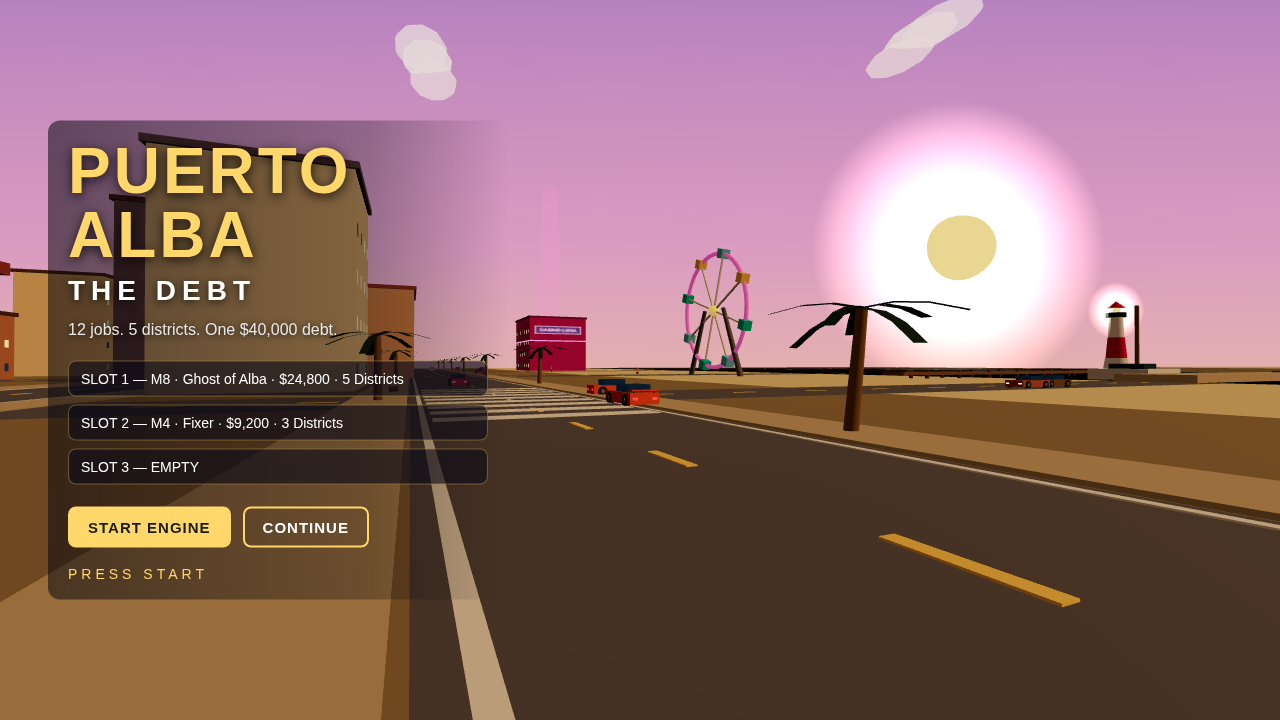
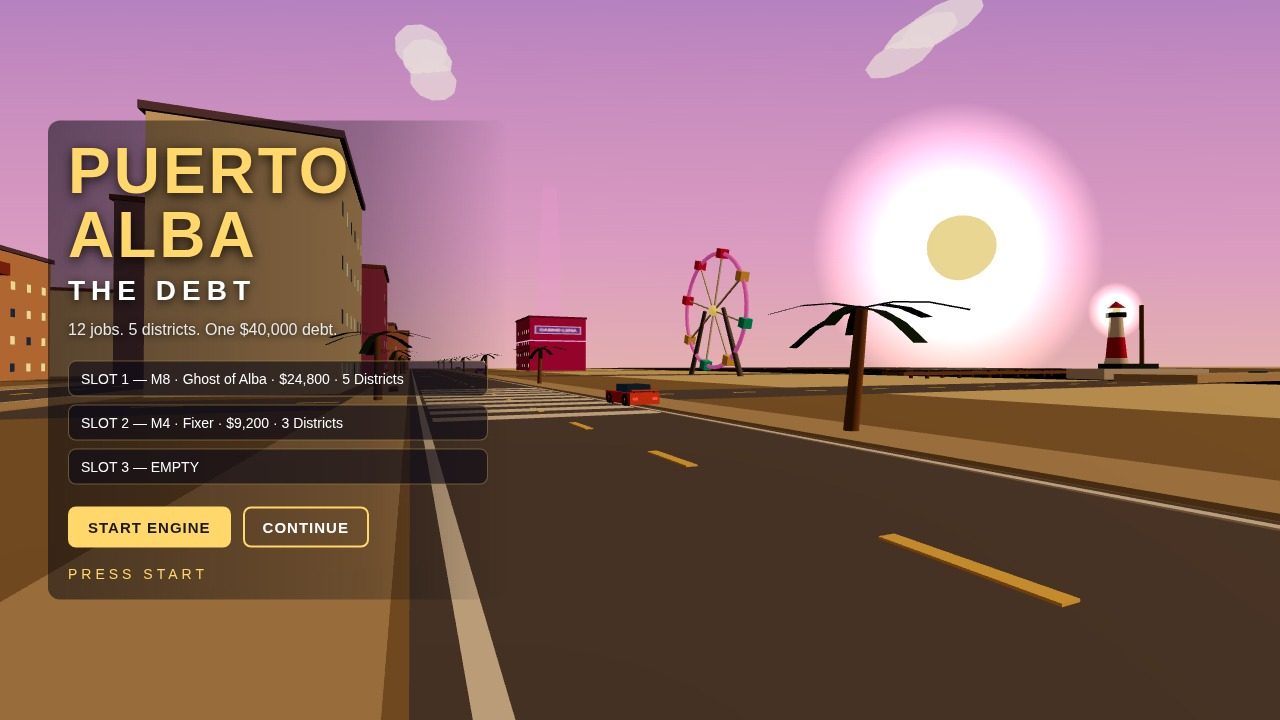
Puerto Alba round 12 polish: wreck smoke stack, walker shadows, glint bands, race framing + gate, combat burn puffs, q92 shots, witnessed

diff --git a/game/src/main.js b/game/src/main.js
@@ -1409,14 +1409,14 @@ export class Game {
     });
     this._wreckCar.speed = 0;
     try {
-      const smokeStops = [[0, 'rgba(38,36,34,0.62)'], [0.6, 'rgba(30,28,26,0.4)'], [1, 'rgba(24,22,20,0)']];
+      const smokeStops = [[0, 'rgba(30,28,26,0.78)'], [0.6, 'rgba(24,22,20,0.5)'], [1, 'rgba(18,16,14,0)']];
       this._wreckSmoke = [];
-      const smokeAt = [[-16, 2.6, 195, 3.0], [-16, 5.2, 195, 4.2], [-16, 8.0, 195, 5.4], [-16, 11.0, 195, 6.6]];
+      const smokeAt = [[-16, 2.6, 195, 3.6], [-16, 5.4, 195, 4.8], [-16, 8.4, 195, 6.0], [-16, 11.6, 195, 7.2], [-16, 14.8, 195, 8.4], [-16, 18.0, 195, 9.6]];
       for (const [sx, sy, sz, ss] of smokeAt) {
         this._wreckSmoke.push(this.effects._sprite(smokeStops, ss, 0.6, false, sx, sy, sz));
       }
-      const emberStops = [[0, 'rgba(255,150,30,1)'], [0.5, 'rgba(240,80,0,0.9)'], [1, 'rgba(180,30,0,0)']];
-      this._wreckEmber = this.effects._sprite(emberStops, 1.1, 1, true, -16, 1.0, 195);
+      const emberStops = [[0, 'rgba(255,180,60,1)'], [0.5, 'rgba(255,100,10,0.95)'], [1, 'rgba(200,40,0,0)']];
+      this._wreckEmber = this.effects._sprite(emberStops, 1.7, 1, true, -16, 1.2, 195);
     } catch (e) { /* ignore */ }
     this._nextBoom = Infinity;
     try { if (this.city.setSun) this.city.setSun(this.car.x + 280, 120, 190, 1.5); } catch (e) { /* ignore */ }
@@ -1690,8 +1690,8 @@ export class Game {
     } catch (e) { /* ignore */ }
     try { this.police.setWanted(0); } catch (e) { /* ignore */ }
     try { if (this.city.setSun) this.city.setSun(180, 45, 280, 1.0); } catch (e) { /* ignore */ }
-    this._shotCam = { pos: [-78, 2.4, 208], look: [-10, 1.6, 203] };
-    this.camera.position.set(-78, 2.4, 208);
+    this._shotCam = { pos: [-82, 3.0, 209], look: [-10, 1.6, 203] };
+    this.camera.position.set(-82, 3.0, 209);
     this.camera.lookAt(-10, 1.6, 203);
   }
 
@@ -1803,11 +1803,11 @@ export class Game {
           this._wreckCar.speed = 0;
           if (this._wreckCar.mesh) {
             this._wreckCar.mesh.rotation.y = 1.57 + 0.5;
-            this._wreckCar.mesh.rotation.z = 0.28;
+            this._wreckCar.mesh.rotation.z = 0.38;
           }
         }
         if (this._wreckSmoke) {
-          const smokeY = [2.6, 5.2, 8.0, 11.0];
+          const smokeY = [2.6, 5.4, 8.4, 11.6, 14.8, 18.0];
           this._wreckSmoke.forEach((s, i) => { if (s) s.position.set(px + 24, smokeY[i], 195); });
         }
         if (this._wreckEmber) this._wreckEmber.position.set(px + 24, 1.0, 195);
@@ -1816,7 +1816,7 @@ export class Game {
         // the light south sidewalk beside the road, speed 0.
         const wk = this.pedestrians && this.pedestrians.walkers;
         if (wk) {
-          const spots = [[10, 209.5], [16, 209.8], [22, 209.3]];
+          const spots = [[20, 209.5], [26, 209.8], [32, 209.3]];
           for (let i = 0; i < 3 && i < wk.length; i++) {
             const w = wk[i];
             w.x = px + spots[i][0]; w.z = spots[i][1]; w.speed = 0; w.heading = 1.57;
@@ -1923,8 +1923,7 @@ export class Game {
         try {
           const lead = this.police.cars && this.police.cars[0];
           if (lead) {
-            this.effects.explosion(lead.x, lead.z, 0.45);
-            this.effects.smoke(lead.x, 2.5, lead.z);
+            this.effects.burnPuffs(lead.x, lead.z);
           }
         } catch (e) { /* ignore */ }
         this._nextBurn = Date.now() + 900;

diff --git a/game/src/city.js b/game/src/city.js
@@ -135,7 +135,7 @@ export function buildCity(THREE, scene) {
   waveTex.repeat.set(24, 10);
   const water = new THREE.Mesh(
     new THREE.PlaneGeometry(640, 280),
-    new THREE.MeshStandardMaterial({ color: 0x12333f, roughness: 0.14, metalness: 0.85, normalMap: waveTex, normalScale: new THREE.Vector2(0.9, 0.9) })
+    new THREE.MeshStandardMaterial({ color: 0x1b4a58, roughness: 0.14, metalness: 0.85, normalMap: waveTex, normalScale: new THREE.Vector2(0.9, 0.9) })
   );
   water.rotation.x = -Math.PI / 2;
   water.position.set(0, 0.04, 440);
@@ -167,6 +167,37 @@ export function buildCity(THREE, scene) {
     extra.rotation.set(-Math.PI / 2, 0, -0.033);
     extra.position.set(gx, 0.06, gz);
     group.add(extra);
+  }
+  // Thin horizontal sunset ripple bands across the water.
+  const bandCanvas = document.createElement('canvas');
+  bandCanvas.width = 256;
+  bandCanvas.height = 16;
+  const bandCtx = bandCanvas.getContext('2d');
+  const bandGrad = bandCtx.createLinearGradient(0, 0, 256, 0);
+  bandGrad.addColorStop(0, 'rgba(255,215,106,0)');
+  bandGrad.addColorStop(0.25, 'rgba(255,215,106,0.7)');
+  bandGrad.addColorStop(0.5, 'rgba(255,180,80,0.9)');
+  bandGrad.addColorStop(0.75, 'rgba(255,215,106,0.7)');
+  bandGrad.addColorStop(1, 'rgba(255,215,106,0)');
+  bandCtx.fillStyle = bandGrad;
+  bandCtx.fillRect(0, 0, 256, 16);
+  const bandFall = bandCtx.createLinearGradient(0, 0, 0, 16);
+  bandFall.addColorStop(0, 'rgba(0,0,0,0)');
+  bandFall.addColorStop(0.5, 'rgba(0,0,0,1)');
+  bandFall.addColorStop(1, 'rgba(0,0,0,0)');
+  bandCtx.globalCompositeOperation = 'destination-in';
+  bandCtx.fillStyle = bandFall;
+  bandCtx.fillRect(0, 0, 256, 16);
+  bandCtx.globalCompositeOperation = 'source-over';
+  const bandTex = new THREE.CanvasTexture(bandCanvas);
+  for (const [bx, bz, bo] of [[-140, 432, 0.55], [30, 445, 0.65], [170, 455, 0.5], [-40, 430, 0.6]]) {
+    const band = new THREE.Mesh(
+      new THREE.PlaneGeometry(280, 2.5),
+      new THREE.MeshBasicMaterial({ map: bandTex, transparent: true, opacity: bo, blending: THREE.AdditiveBlending, depthWrite: false })
+    );
+    band.rotation.set(-Math.PI / 2, 0, -0.033);
+    band.position.set(bx, 0.06, bz);
+    group.add(band);
   }
 
   // --- Roads: lighter grey, dashes, edge lines, crosswalks ------------------

diff --git a/game/src/races.js b/game/src/races.js
@@ -38,14 +38,20 @@ export class Races {
       rivals.push({ car: c, cpIndex: 0, finished: false, time: 0 });
     }
     const markers = [];
-    const ringGeo = new THREE.TorusGeometry(5.5, 0.55, 8, 24);
+    const ringGeo = new THREE.TorusGeometry(5.5, 0.30, 8, 32);
     const ringMat = new THREE.MeshBasicMaterial({ color: 0xffd76a });
+    const innerGeo = new THREE.TorusGeometry(4.4, 0.16, 8, 32);
+    const innerMat = new THREE.MeshBasicMaterial({ color: 0x2ee6d6 });
     for (const [x, z] of def.checkpoints) {
       const ring = new THREE.Mesh(ringGeo, ringMat);
       ring.rotation.y = Math.PI / 2;
       ring.position.set(x, 5.5, z);
       this.scene.add(ring);
       markers.push(ring);
+      const inner = new THREE.Mesh(innerGeo, innerMat);
+      inner.rotation.y = Math.PI / 2;
+      inner.position.set(x, 5.5, z);
+      this.scene.add(inner);
     }
     this.active = { def, cpIndex: 0, time: 0, rivals, markers, finished: false };
     return this.active;

diff --git a/game/src/effects.js b/game/src/effects.js
@@ -114,6 +114,17 @@ export class Effects {
     this._add(light, 0.7, 6, {});
   }
 
+  burnPuffs(x, z) {
+    const smokeStops = [[0, 'rgba(120,120,120,0.6)'], [1, 'rgba(80,80,80,0)']];
+    const flameStops = [[0, 'rgba(255,180,60,1)'], [0.5, 'rgba(255,100,10,0.95)'], [1, 'rgba(200,40,0,0)']];
+    const puffA = this._sprite(smokeStops, 2.2, 0.6, false, x - 0.7, 1.8, z - 0.5);
+    const puffB = this._sprite(smokeStops, 2.8, 0.6, false, x + 0.7, 2.6, z + 0.5);
+    const flame = this._sprite(flameStops, 1.4, 1, true, x, 1.2, z);
+    for (const puff of [puffA, puffB]) {
+      if (puff) { puff.maxLife = 1.2; puff.rise = true; }
+    }
+    if (flame) { flame.maxLife = 0.9; }
+  }
   muzzle(x, y, z) {
     // Bright burst at the gun tip: saturated orange core + halo + star +
     // solid core ball + sparks at the muzzle. NORMAL blending, not
